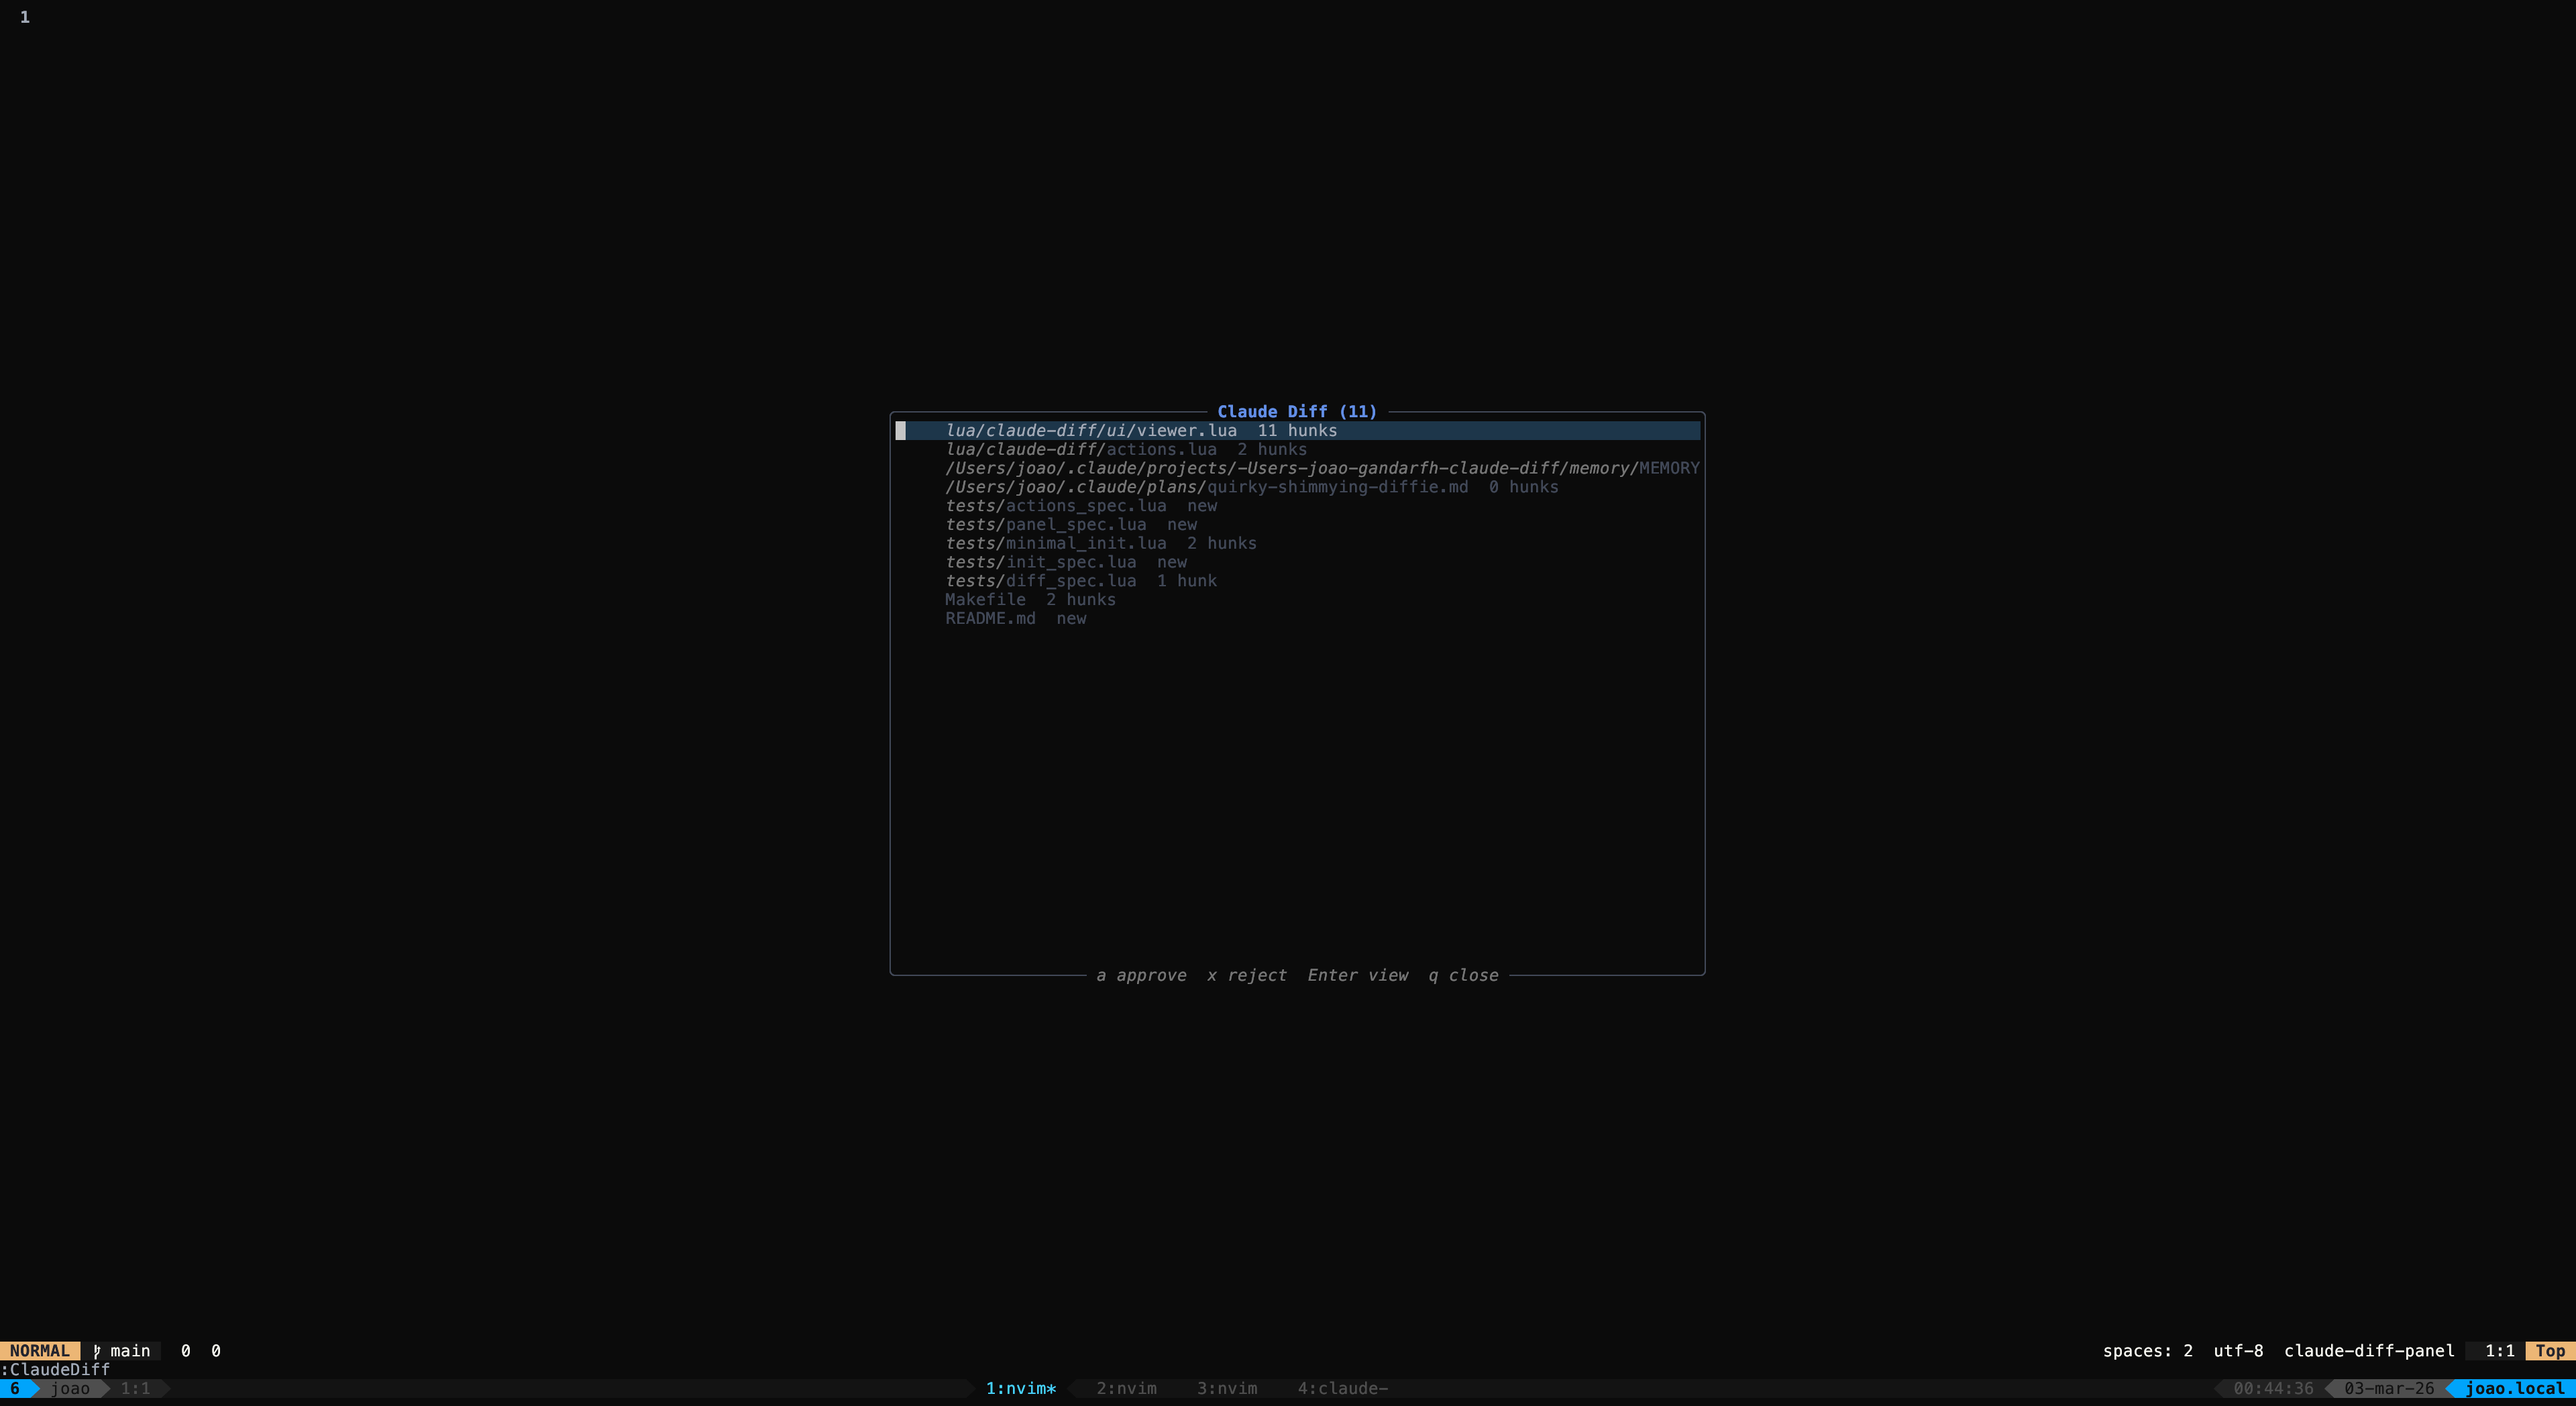
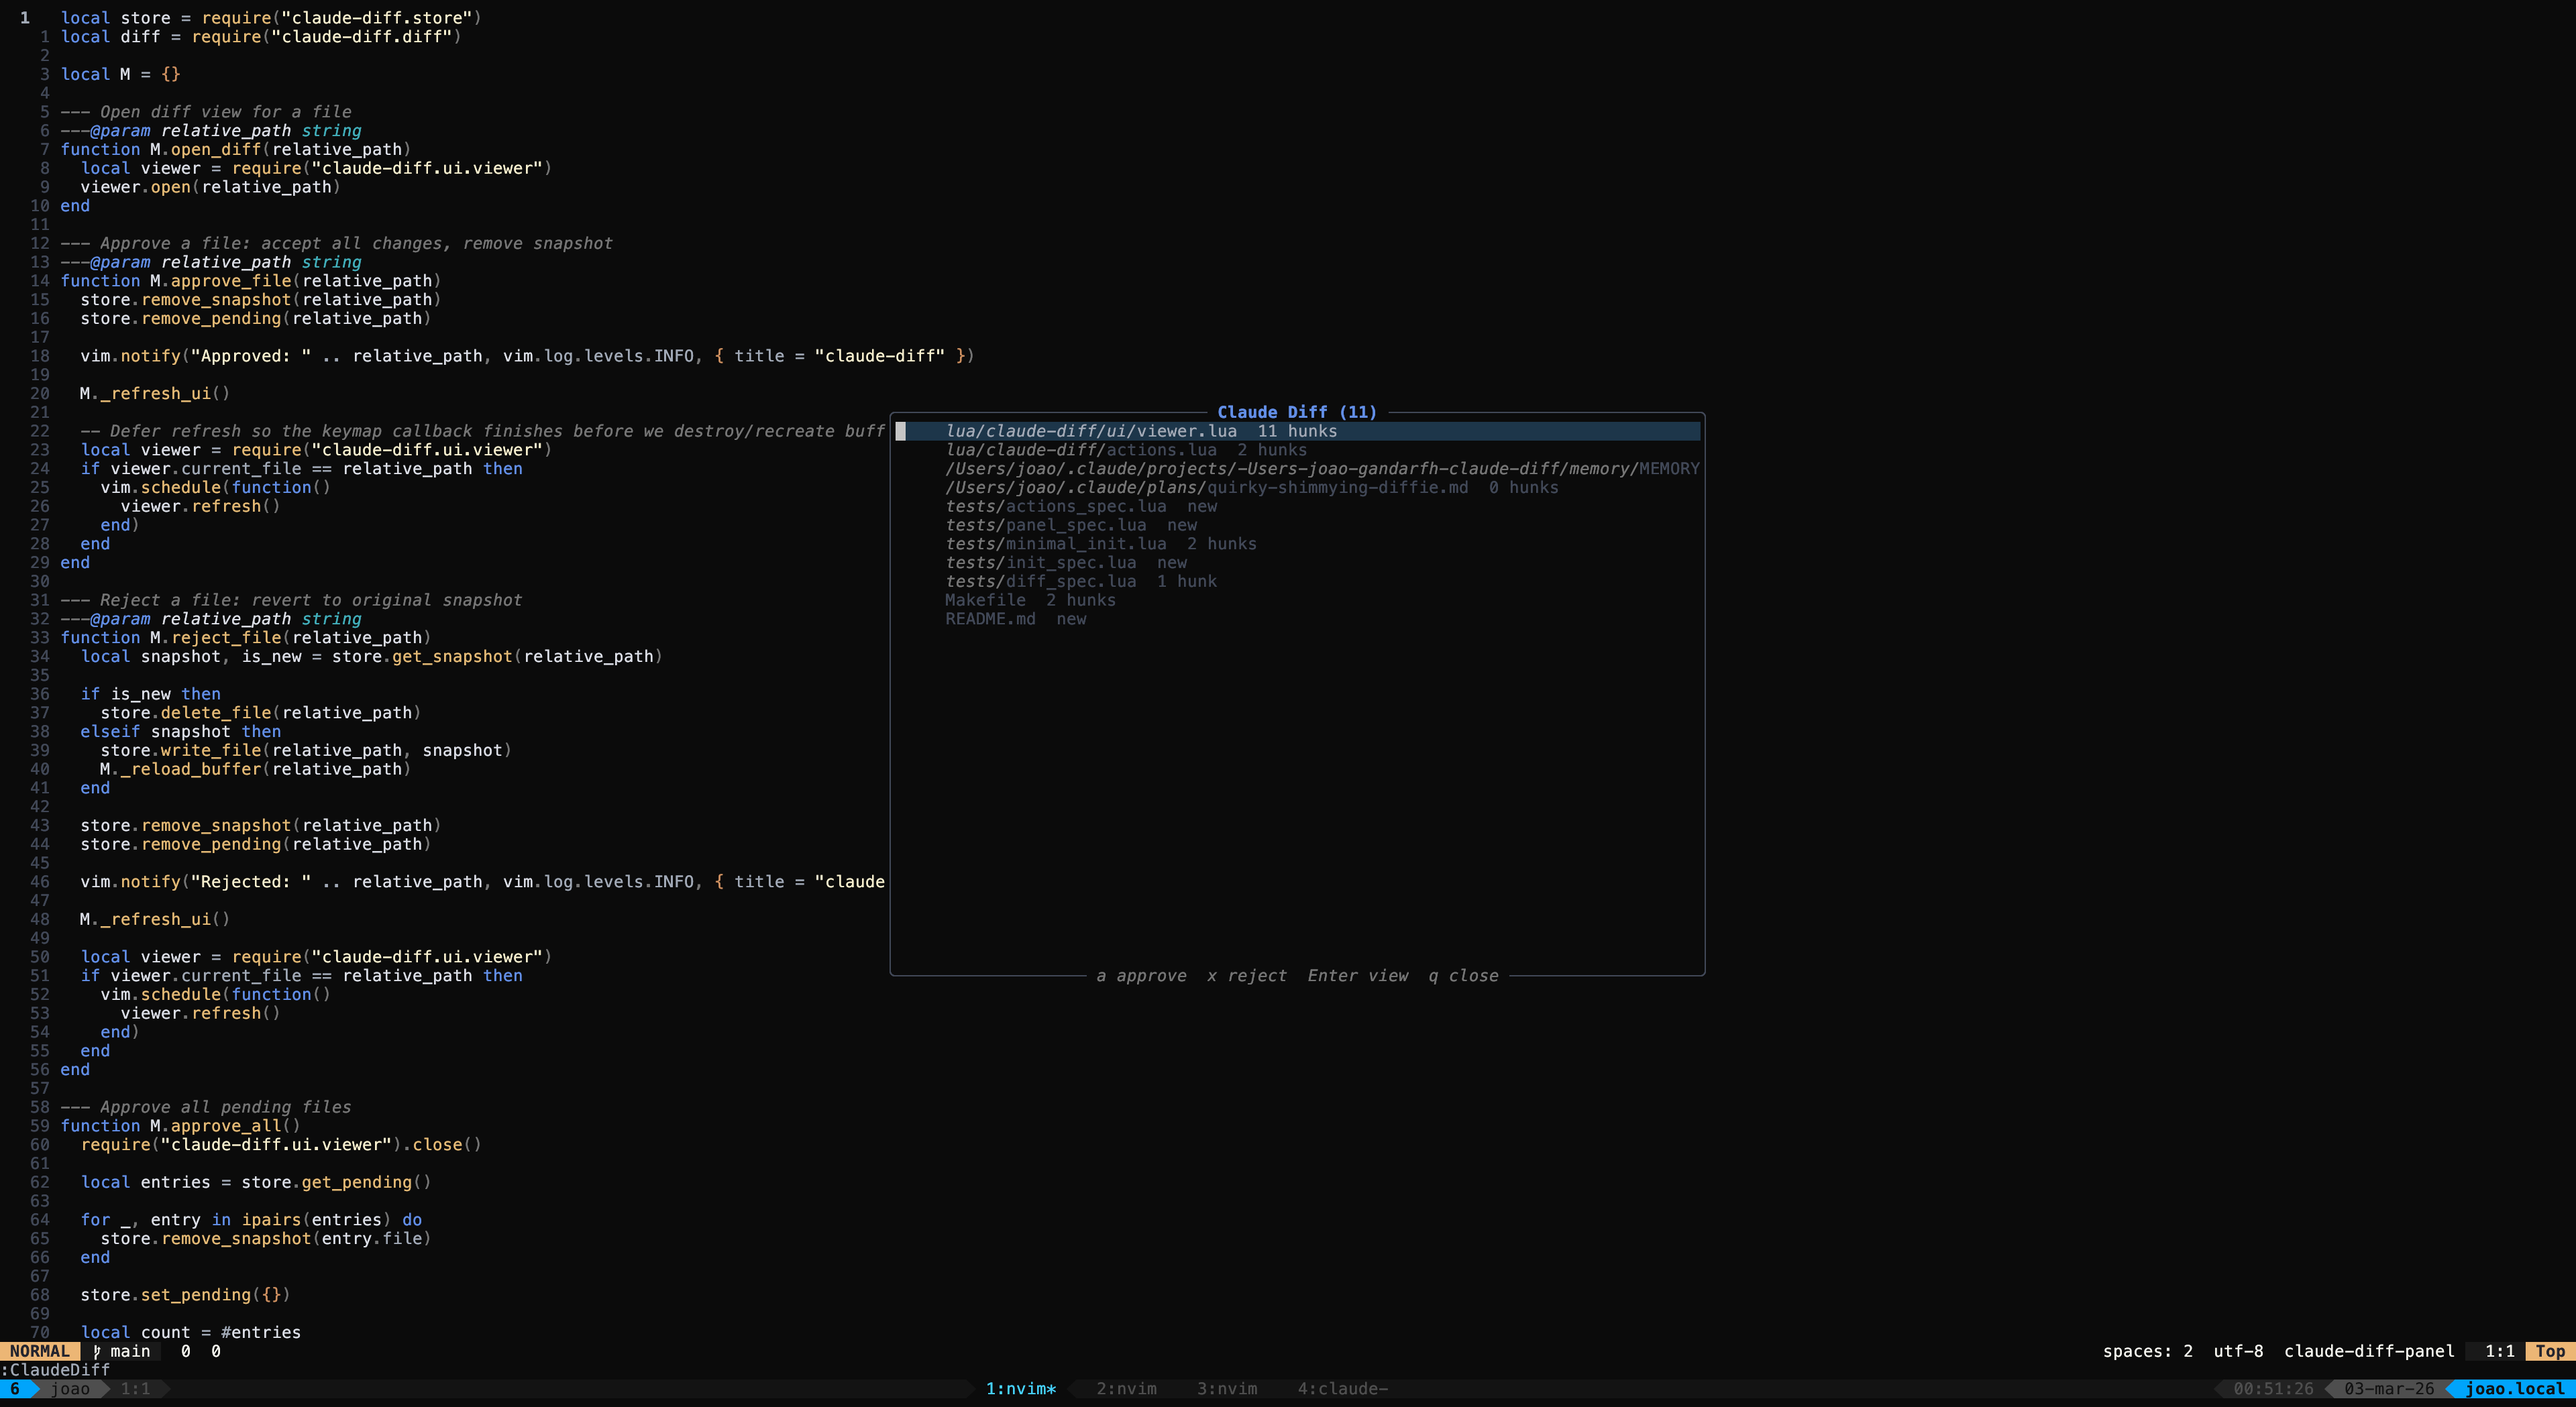
docs: update screenshots

diff --git a/README.md b/README.md
@@ -2,7 +2,7 @@
 
 A Neovim plugin that intercepts Claude Code file edits via hooks and lets you review, approve, or reject each change — file by file, hunk by hunk — with a side-by-side diff viewer.
 
-![Viewer](./assets/viewer.png)
+![Overview](./assets/overview.png)
 
 ## How it works
 
